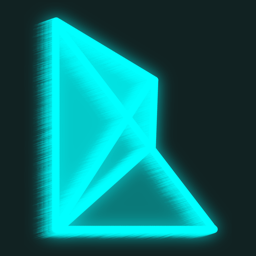
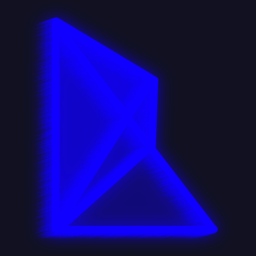
attempt 2

diff --git a/assets/script/min.js b/assets/script/min.js
@@ -24,23 +24,7 @@ function flickery_element(n){n==$("h1#head")&&n.clientHeight>54&&(console.log(n.
 var is_IE=/(MSIE|Trident\/)/.test(window.navigator.userAgent),is_Chrome=/Chrome\//.test(window.navigator.userAgent);function jumpToEdge(e=0){window.navigator.vibrate([5]),window.setTimeout(e=>{globalThis.lastPosition=e},2e3,window.scrollY),"[Λ]"==$("#jumper").innerHTML?(is_IE?window.scrollTo(0,0):window.scrollTo({top:0,behavior:"smooth"}),$("#jumper").innerHTML="[V]"):(is_IE?window.scrollTo(0,window.scrollMaxY):is_Chrome?$("#footer").scrollIntoView({block:"start",inline:"end",behavior:"smooth"}):window.scrollTo({top:window.scrollMaxY,behavior:"smooth"}),$("#jumper").innerHTML="[Λ]")}function resetUpdate(){shouldUpdate=!0}function changeScrollingThingy(e=null){var o=$("#jumper");if(null==e||null==e.deltaY){if(window.scrollY%2)return;window.scrollY/window.scrollMaxY>=.5?(o.innerHTML="[Λ]",$("#nav").style.bottom="-100px"):(o.innerHTML="[V]",$("nav").style.bottom="0px")}else{var t=window.scrollY;o=$("#jumper");t>=window.scrollMaxY-95?(o.innerHTML="[Λ]",$("nav").style.bottom="0px"):e.deltaY>0||t<=32?(o.innerHTML="[V]",$("nav").style.bottom="0px"):(o.innerHTML="[Λ]",$("nav").style.bottom="-100px")}shouldUpdate&&(updateSpacer(),shouldUpdate=!1,window.setTimeout(resetUpdate,500))}function getHeight(e){let o=compSty(e);var t=Number(o.height.slice(0,-2));return t+=Number(o.marginTop.slice(0,-2)),t+=Number(o.marginBottom.slice(0,-2))}function updateSpacer(e=!1){e||loadFooter(),spacer=$("#spacer"),spacer.style.transition="none",spacer.style.height="0px";for(var o=window.innerHeight,t=0;Number(compSty("body").height.slice(0,-2))+7<o;)spacer.style.height=t+"px",t+=1}shouldUpdate=!0;var sub_styles_timeout=!1;function sub_styles(e=!0){globalThis.sub_styles_timeout||(globalThis.sub_styles_timeout=!0,console.groupCollapsed("Reformatting page"),e&&$("#spacer")&&(console.log("Resizing spacer"),logFunc(updateSpacer)),e&&$("table")&&(console.log("Styling tables"),logFunc(styleTables)),e&&$(".accent")&&(console.log("Moving accents"),logFunc(style_accents)),$(".dict")&&logFunc(resizeDicts),$("#spacer")&&(console.log("Resizing spacer"),logFunc(updateSpacer)),console.groupEnd("Reformatting page"),window.setTimeout(()=>globalThis.sub_styles_timeout=!1,100))}
 
 // aesthetic/colors.js
-function swapColor(colorName, swapImg = true) {
-    var q = $$("link[rel='stylesheet']")
-    if(!q[q.length - 1].href.endsWith("priz-" + colorName + ".css")
-        document.head.insertAdjacentHTML("beforeend", `<link rel="stylesheet" type="text/css" href="/prizm.dev/assets/css/priz-${colorName}.css"/>`)
-    if(!$("#truelogo").src.endsWith("priz_" + colorName + ".webp"))
-        $("#truelogo").src = `/prizm.dev/assets/image/webp/priz_${colorName}.webp`
-    try {
-        resizeDicts(false);
-    } catch(err) {
-        // Not important
-    } try {
-        setTransitions(false);
-    } catch(err) {
-        // Not important
-    }
-}
-
+function swapColor(e,s=!0){var t=$$("link[rel='stylesheet']");t[t.length-1].href.endsWith("priz-"+e+".css")||document.head.insertAdjacentHTML("beforeend",`<link rel="stylesheet" type="text/css" href="/prizm.dev/assets/css/priz-${e}.css"/>`),$("#truelogo").src.endsWith("priz_"+e+".webp")||($("#truelogo").src=`/prizm.dev/assets/image/webp/priz_${e}.webp`);try{resizeDicts(!1)}catch(e){}try{setTransitions(!1)}catch(e){}}
 
 // load-min.js
 
@@ -154,7 +138,7 @@ async function loadNow() {
     changeFunnyTextThing();
     window.onresize = function() {sub_styles(false)};
     for(var thing of [1, 2, 3, 4, 5, 6]) {
-        for(var elem of $all("h" + thing)) {
+        for(var elem of $$("h" + thing)) {
             elem.onclick = function() {
                 linkMe(this);
             }
@@ -221,152 +205,10 @@ div.sect:last-child > div:last-child  {
     a11y();
 }
 
-async function load(filename, strip = false, json = false, list = false) {
-    if(!filename.endsWith("error.html"))
-        $("#head").innerHTML = document.title;
-    else
-        $("#head").innerHTML = "ERROR ;[";
-    console.log("Reading " + filename);
-    if(strip.list)
-        list = true;
-    if(strip.json)
-        json = true;
-    var resp = await fetch(filename);
-    var content = await resp.text();
-    if(strip || list || json)
-        content = content.trim();
-    if(json)
-        return JSON.parse(content.replace(/\\\n/gm, "\\n"));
-    if(list)
-        return content.split("\n");
-    return content;
-}
-
-function loadFooter() {
-}
-
-function linkMe(elem) {
-    elem.scrollIntoView({behavior: "smooth"});
-    var id = elem.id;
-    if(id[0] != "#")
-        id = "#" + id;
-    window.history.replaceState(window.history.state, document.title, id);
-    flickery_element(elem);
-}
-
-function flickery_element(h) {
-    delayFunction(function(h){h.style.transition = "none";}, 1000, 1001, 1000, h);
-    var shown = true;
-    var halfOpacity = compSty(h).color;
-    halfOpacity = "rgba(" + halfOpacity.split("(")[1].slice(0, -1) + ", 0.7)";
-    for(var x = 1500; x <= 3000; x += Math.floor(Math.random() * 200) + 25) {
-        shown = !shown;
-        if(!shown)
-            delayFunction(function(h){h.style.color = halfOpacity;}, x, x + 1, x, h);
-        else
-            delayFunction(function(h){h.style.color = "";}, x, x + 1, x, h);
-    }
-    delayFunction(function(h){h.style.transition = "";}, x - 25, x, 5, h);
-    delayFunction(function(h){h.style.color = halfOpacity;}, x - 50, x - 49, x, h);
-    delayFunction(function(h){h.style.color = "";}, x, x + 1, x, h);
-}
-
-function resizeDicts(log = true, element = document) {
-    if((window.innerHeight + "" + window.innerWidth).includes("."))
-        return;
-    var height = compSty("h1").height.slice(0, -2) / 2;
-    if(log) {
-        console.log("Window resized to " + window.innerWidth + "x" + window.innerHeight);
-        console.log("Resizing elements");
-    }
-    var tooSmol = false;
-    var n = (2 * height + 20) + "px";
-    var n2 = (height + 6) + "px";
-    var n3 = height + "px";
-    for(var thing of $(element, $("dict"))) {
-        var parent = thing.parentElement;
-        if(parent.clientWidth == 0)
-            continue;
-        var width = parent.clientWidth - 5
-        ;var thisWidth = width;
-        var style = thing.style;
-        thisWidth -= thing.nextElementSibling.clientWidth;
-        thisWidth -= thing.previousElementSibling.clientWidth;
-        style.lineHeight = n3;
-        thing.classList.remove("smol-dict");
-        if(thisWidth < 100)
-            tooSmol = true;
-
-        thing.parentElement.style.minHeight = height + "px";
-        thing.parentElement.style.height = height + "px";
-        var func = dictsPerfect;
-    }
-    if(tooSmol) {
-        for(var thing of $all("dict")) {
-            thing.classList.add("smol-dict");
-            thing.style.top = n2;
-            thing.parentElement.style.minHeight = n;
-            thing.parentElement.style.height = n;
-        }
-        var func = dictsTooSmol;
-    }
-    delayFunction(func, 0, 1000, 500);
-    updateSpacer();
-}
-
-function dictsPerfect() {
-    for(var thing of $all("dict")) {
-        var parent = thing.parentElement;
-        parent.classList.add("dict-good");
-        parent.classList.remove("dict-smol");
-        thing.style.top = "";
-    }
-}
-
-function dictsTooSmol() {
-    for(var thing of $all("dict")) {
-        var parent = thing.parentElement;
-        parent.classList.add("dict-smol");
-        parent.classList.remove("dict-good");
-        thing.style.top = (Number(thing.style.lineHeight.slice(0, -2)) + 5) + "px";
-    }
-}
-
-function toggleDrop(elem) {
-    if(elem.classList.toggle("h-dropper-closed")) {
-        elem.innerHTML = "[V]";
-    } else {
-        elem.innerHTML = "[\u039b]";
-    }
-    target = elem.nextElementSibling;
-    if(!target)
-        target = elem.parentElement.nextElementSibling
-    target.classList.toggle("invis");
-    resizeDicts(false, target);
-    elem.scrollIntoView({behavior: "smooth"});
-    lastPosition = window.scrollMaxY + 10;
-}
-
 var patreon_nav = `
 <nav class="sect">
     Consider supporting me on <a href="/prizm.dev/re/patreon" target="_blank">Patreon</a>!
 </nav>`
 
-var texts = [];
-
-function changeFunnyTextThing() {
-    var theText = texts[Math.floor(Math.random() * texts.length)];
-    while(theText == "" || theText == $("#funnytextthing").innerHTML)
-        theText = texts[Math.floor(Math.random() * texts.length)];
-    $("#funnytextthing").innerHTML = theText;
-    delayUpdateSpacer();
-}
-
-function compSty(elem) {
-    try {
-        return window.getComputedStyle(elem);
-    } catch(err) {
-        return window.getComputedStyle($$(elem)[0]);
-    }
-}
+async function load(e,n=!1,t=!1,a=!1){e.endsWith("error.html")?$("#head").innerHTML="ERROR ;[":$("#head").innerHTML=document.title,console.log("Reading "+e),n.list&&(a=!0),n.json&&(t=!0);var i=await fetch(e),r=await i.text();return(n||a||t)&&(r=r.trim()),t?JSON.parse(r.replace(/\\\n/gm,"\\n")):a?r.split("\n"):r}function loadFooter(){}function linkMe(t){t.scrollIntoView({behavior:"smooth"});var e=t.id;"#"!=e[0]&&(e="#"+e),window.history.replaceState(window.history.state,document.title,e),flickery_element(t)}function flickery_element(t){delayFunction(function(t){t.style.transition="none"},1e3,1001,1e3,t);var e=!0,n=compSty(t).color;n="rgba("+n.split("(")[1].slice(0,-1)+", 0.7)";for(var i=1500;i<=3e3;i+=Math.floor(200*Math.random())+25)(e=!e)?delayFunction(function(t){t.style.color=""},i,i+1,i,t):delayFunction(function(t){t.style.color=n},i,i+1,i,t);delayFunction(function(t){t.style.transition=""},i-25,i,5,t),delayFunction(function(t){t.style.color=n},i-50,i-49,i,t),delayFunction(function(t){t.style.color=""},i,i+1,i,t)}function resizeDicts(t=!0,e=document){if(!(window.innerHeight+""+window.innerWidth).includes(".")){var n=compSty("h1").height.slice(0,-2)/2;t&&(console.log("Window resized to "+window.innerWidth+"x"+window.innerHeight),console.log("Resizing elements"));var i=!1,o=2*n+20+"px",l=n+6+"px",r=n+"px";for(var s of $(e,$("dict"))){var c=s.parentElement;if(0!=c.clientWidth){var a=c.clientWidth-5,d=s.style;a-=s.nextElementSibling.clientWidth,a-=s.previousElementSibling.clientWidth,d.lineHeight=r,s.classList.remove("smol-dict"),a<100&&(i=!0),s.parentElement.style.minHeight=n+"px",s.parentElement.style.height=n+"px";var h=dictsPerfect}}if(i){for(var s of $$("dict"))s.classList.add("smol-dict"),s.style.top=l,s.parentElement.style.minHeight=o,s.parentElement.style.height=o;h=dictsTooSmol}delayFunction(h,0,1e3,500),updateSpacer()}}function dictsPerfect(){for(var t of $$("dict")){var e=t.parentElement;e.classList.add("dict-good"),e.classList.remove("dict-smol"),t.style.top=""}}function dictsTooSmol(){for(var t of $$("dict")){var e=t.parentElement;e.classList.add("dict-smol"),e.classList.remove("dict-good"),t.style.top=Number(t.style.lineHeight.slice(0,-2))+5+"px"}}function toggleDrop(t){t.classList.toggle("h-dropper-closed")?t.innerHTML="[V]":t.innerHTML="[Λ]",target=t.nextElementSibling,target||(target=t.parentElement.nextElementSibling),target.classList.toggle("invis"),resizeDicts(!1,target),t.scrollIntoView({behavior:"smooth"}),lastPosition=window.scrollMaxY+10}var texts=[];function changeFunnyTextThing(){for(var t=texts[Math.floor(Math.random()*texts.length)];""==t||t==$("#funnytextthing").innerHTML;)t=texts[Math.floor(Math.random()*texts.length)];$("#funnytextthing").innerHTML=t,delayUpdateSpacer()}function compSty(t){try{return window.getComputedStyle(t)}catch(e){return window.getComputedStyle($$(t)[0])}}
 

diff --git a/index.html b/index.html
@@ -12,8 +12,8 @@
         <meta name="twitter:site" content="@VoxelPrismatic">
         <meta name="twitter:creator" content="@VoxelPrismatic">
         <meta name="twitter:card" content="summary">
-        <meta name="twitter:image" content="https://voxelprismatic.github.io/prizm.dev/assets/image/webp/favi/priz_blue.webp" />
-        <meta property="og:image" content="https://voxelprismatic.github.io/prizm.dev/assets/image/webp/favi/priz_blue.webp" />
+        <meta name="twitter:image" content="https://voxelprismatic.github.io/prizm.dev/assets/image/webp/favi/priz_cyan.webp" />
+        <meta property="og:image" content="https://voxelprismatic.github.io/prizm.dev/assets/image/webp/favi/priz_cyan.webp" />
         <meta name="theme-color" content="#00FFFF">
         <meta property="og:site_name" content="PRIZ ;]">
         <meta property="og:image:type" content="image/webp" />
@@ -40,7 +40,7 @@
     </head>
     <body class="bgcolor" style="background-color: rgb(17, 34, 34);">
         <div id="logo">
-            <img src="/prizm.dev/assets/image/webp/priz_blue.webp" alt="[prizm logo]" id="truelogo" tabindex="-1" height="156px" onclick="location.reload()"/>
+            <img src="/prizm.dev/assets/image/webp/priz_cyan.webp" alt="[prizm logo]" id="truelogo" tabindex="-1" height="156px" onclick="location.reload()"/>
         </div>
         <h1 id="head" tabindex="-1">PRIZ ;]</h1>
         <div id="content">
